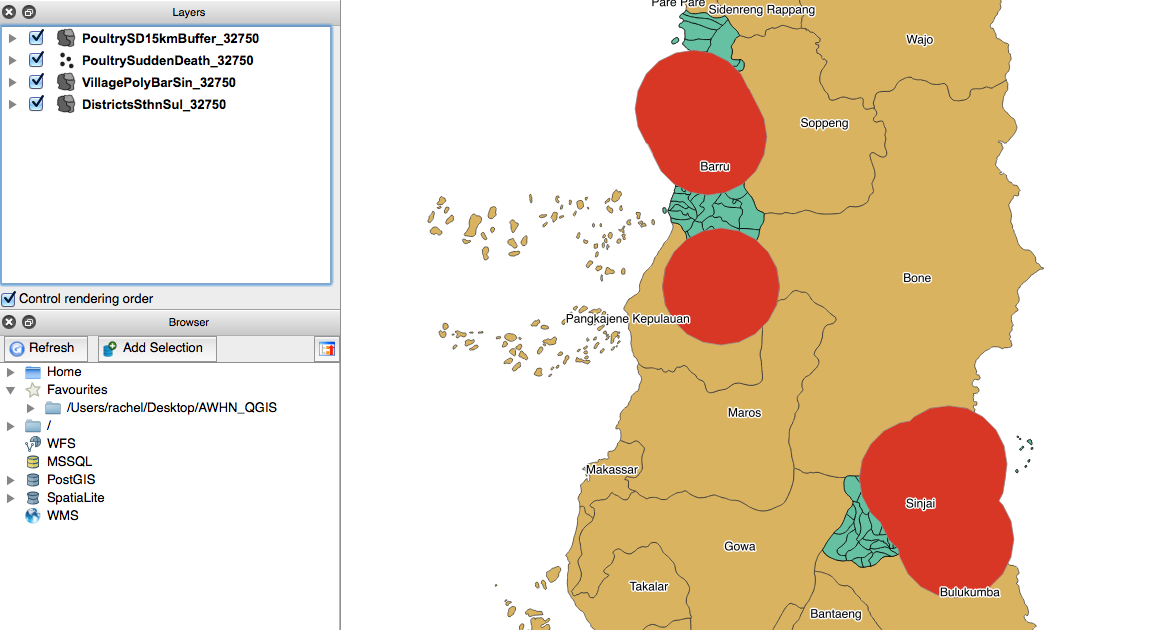
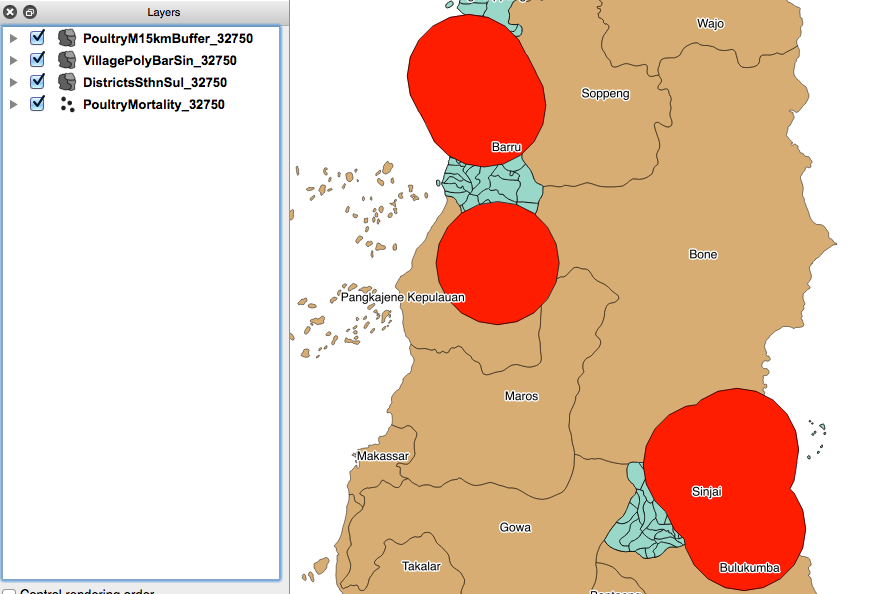
Updated images and files regarding poultry mortality

diff --git a/animal_health/exercise3.rst b/animal_health/exercise3.rst
@@ -10,7 +10,7 @@ will have when creating a buffer zone.
 |basic| |FA| Point data, centroids and polygons
 --------------------------------------------------------------------------------
 
-If you look at your map you will notice that the cases of sudden death in poultry occur mostly 
+If you look at your map you will notice that the cases of poultry mortality occur mostly 
 in the districts of Barru and Sinjai.
 
 For this exercise we are going to add a new vector layer, :kbd:`VillagePolyBarSin_32750`, which shows the 
@@ -35,7 +35,7 @@ How will this affect our 15 kilometre buffer zone? Let's find out.
 |basic| |FA| Buffering from the village centroid
 --------------------------------------------------------------------------------
 
-For this buffering exercise we will use the :kbd:`PoultrySuddenDeath_32750` file we created. 
+For this buffering exercise we will use the :kbd:`PoultryMortality_32750` file we created. 
 Select this layer, and go to the *Vector* menu. Hover over *Geoprocessing Tools* and select 
 *Buffer(s)*.
 
@@ -47,12 +47,12 @@ The following window will open:
 .. image:: ../_static/ISIKHNAS/017.png
    :align: center
 
-Choose :kbd:`PoultrySuddenDeath_32750` as the input vector layer, and use a buffer distance of  
+Choose :kbd:`PoultryMortality_32750` as the input vector layer, and use a buffer distance of  
 15000 (remember your layer units are metres).
 
 Click on *Dissolve buffer results*.
 
-Click on *Browse* and name your new shapefile :kbd:`PoultrySD15kmBuffer_32750.shp`.
+Click on *Browse* and name your new shapefile :kbd:`PoultryM15kmBuffer_32750.shp`.
 
 Add this layer to your map. The result should look something like this:
 
@@ -83,11 +83,11 @@ Again, we move to the *Vector* menu, hover over the *Geoprocessing Tools*, and s
 Our input layer is the layer we want to change, in this case our new buffer layer. The clip layer is 
 the layer we will use cut around our buffered layer.
 
-Click on the *Browse* button, and name your new shapefile :kbd:`PoultrySD15kmBufferClip_32750.shp`.
+Click on the *Browse* button, and name your new shapefile :kbd:`PoultryM15kmBufferClip_32750.shp`.
 
 Add it to the map. 
 
-Remove the :kbd:`PoultrySD15kmBuffer_32750.shp` layer.
+Remove the :kbd:`PoultryM15kmBuffer_32750.shp` layer.
 
 Your screen should now look similar to this:
 
@@ -110,8 +110,8 @@ In the next section we will create the buffer using the village polygon layer an
 --------------------------------------------------------------------------------
 
 Using the same skills you have learnt above to buffer and clip layers, create a 15 kilometre 
-buffer zone around the village polygons containing cases of sudden death in poultry. Clip your new
-layer and add it to your map, naming it :kbd:`PoultrySD15kmBufferPolyClip_32750`.
+buffer zone around the village polygons containing cases of poultry mortality. Clip your new
+layer and add it to your map, naming it :kbd:`PoultryM15kmBufferPolyClip_32750`.
 
 Rearrange the layers, so that the buffer zone created with the village centroids is visible over the 
 top of your new buffer zone created with the village polygons. What do you notice?

diff --git a/animal_health/exercise2.rst b/animal_health/exercise2.rst
@@ -1,7 +1,7 @@
 |LS| Projecting layers 
 ===============================================================================
 
-We have created a map showing all the cases of poultry mortality in poultry in the 
+We have created a map showing all the cases of poultry mortality in the 
 Sulawesi Selatan region. Now we need to consider our approach to creating the required 
 15 kilometre buffer zone around these cases.
 
